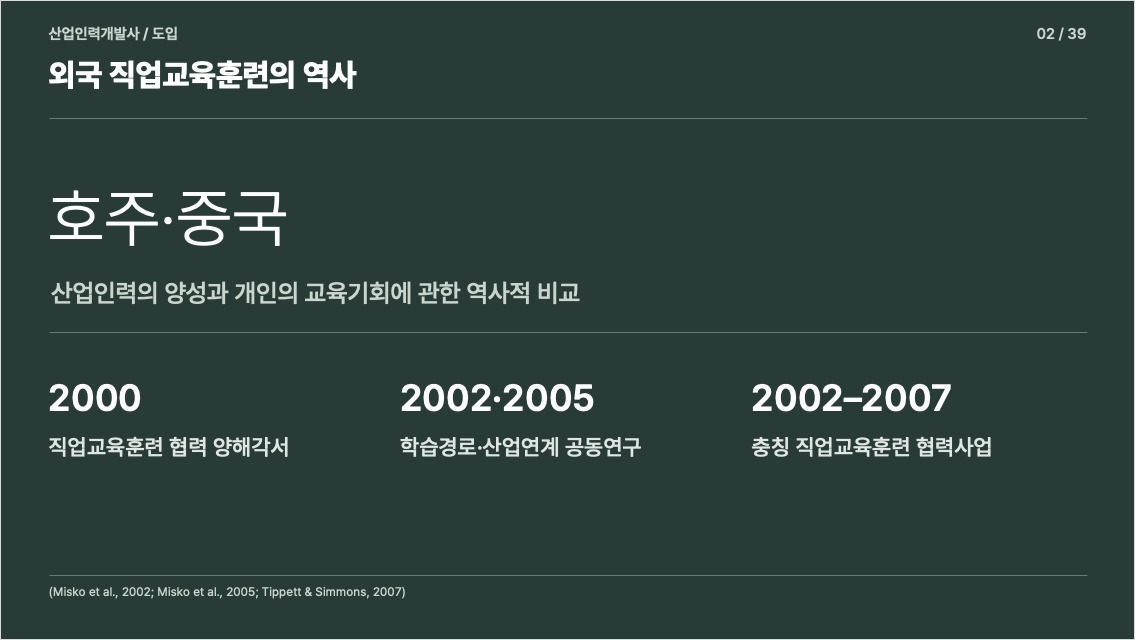
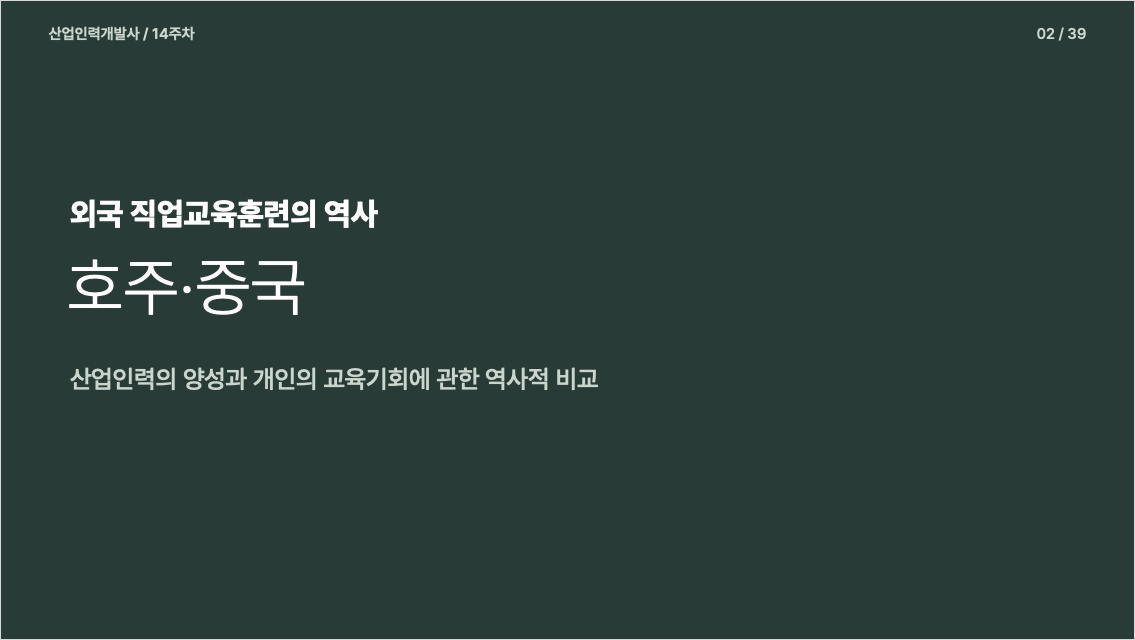
Simplify title page and retain chronological coverage

diff --git a/au-cn-2026/app.js b/au-cn-2026/app.js
@@ -10,5 +10,5 @@ function drawPanel(){const s=deck.slides[idx];const p=$('#panel');document.query
  else if(tab==='sources'){p.innerHTML='<h3>장표 관련 사료 및 연구문헌</h3><div class="sources">'+s.sources.map(k=>sourceCard(lookup[k])).join('')+'</div>'}
  else{p.innerHTML='<h3>전체 참고문헌 및 확인 위치</h3><div class="summary"><span>등록 출처 <b>'+deck.sources.length+'건</b></span><span>원문 확보 여부 및 자료 성격의 구별</span></div><input class="search" id="sourceSearch" type="search" aria-label="참고문헌 검색" placeholder="저자·제목·연도·검토 상태 검색"><div id="sourceList"></div>';const render=()=>{let q=$('#sourceSearch').value.toLowerCase();$('#sourceList').innerHTML=deck.sources.filter(t=>JSON.stringify(t).toLowerCase().includes(q)).sort((a,b)=>a.ref.localeCompare(b.ref,'en')).map(sourceCard).join('')||'<p>검색 결과 없음</p>'};$('#sourceSearch').oninput=render;render()}
 }
-function go(i,update=true){idx=Math.min(deck.slides.length-1,Math.max(0,i));const s=deck.slides[idx];$('#section').textContent=s.section+' · '+s.id+' / '+deck.slides.length+' · 배정 '+seconds(s.sec);$('#slideTitle').textContent=s.title;$('#slide').src=root+'slides/'+s.id+'.jpg?v=20261127r008';$('#slide').alt=s.title+' — 실제 PowerPoint 렌더링';$('#sel').value=idx;$('#prev').disabled=idx===0;$('#next').disabled=idx===deck.slides.length-1;$('#bar').style.width=(100*(idx+1)/deck.slides.length)+'%';const used=deck.slides.slice(0,idx+1).reduce((a,b)=>a+b.sec,0);$('#timing').textContent='누적 '+seconds(used)+' / 39:00';drawNav();drawPanel();if(update)history.replaceState(null,'','#slide='+s.id)}
-fetch(root+'data.json?v=20261127r008',{cache:'no-cache'}).then(r=>{if(!r.ok)throw Error('자료 요청 실패 '+r.status);return r.json()}).then(d=>{deck=d;lookup=Object.fromEntries(d.sources.map(s=>[s.id,s]));$('#sel').innerHTML=d.slides.map((s,i)=>'<option value="'+i+'">'+s.id+' '+esc(s.title)+'</option>').join('');$('#sel').onchange=e=>go(+e.target.value);$('#prev').onclick=()=>go(idx-1);$('#next').onclick=()=>go(idx+1);document.querySelectorAll('.tabs button').forEach(b=>b.onclick=()=>{tab=b.dataset.tab;drawPanel()});document.addEventListener('keydown',e=>{if(/INPUT|SELECT|TEXTAREA/.test(e.target.tagName))return;if(e.key==='ArrowRight'){e.preventDefault();go(idx+1)}if(e.key==='ArrowLeft'){e.preventDefault();go(idx-1)}});const n=Number(location.hash.match(/slide=(\d+)/)?.[1]||1);go(n-1,false)}).catch(e=>{$('#slideTitle').textContent='자료 불러오기 오류';$('#panel').textContent=String(e)});
+function go(i,update=true){idx=Math.min(deck.slides.length-1,Math.max(0,i));const s=deck.slides[idx];$('#section').textContent=s.section+' · '+s.id+' / '+deck.slides.length+' · 배정 '+seconds(s.sec);$('#slideTitle').textContent=s.title;$('#slide').src=root+'slides/'+s.id+'.jpg?v=20261127r009';$('#slide').alt=s.title+' — 실제 PowerPoint 렌더링';$('#sel').value=idx;$('#prev').disabled=idx===0;$('#next').disabled=idx===deck.slides.length-1;$('#bar').style.width=(100*(idx+1)/deck.slides.length)+'%';const used=deck.slides.slice(0,idx+1).reduce((a,b)=>a+b.sec,0);$('#timing').textContent='누적 '+seconds(used)+' / 39:00';drawNav();drawPanel();if(update)history.replaceState(null,'','#slide='+s.id)}
+fetch(root+'data.json?v=20261127r009',{cache:'no-cache'}).then(r=>{if(!r.ok)throw Error('자료 요청 실패 '+r.status);return r.json()}).then(d=>{deck=d;lookup=Object.fromEntries(d.sources.map(s=>[s.id,s]));$('#sel').innerHTML=d.slides.map((s,i)=>'<option value="'+i+'">'+s.id+' '+esc(s.title)+'</option>').join('');$('#sel').onchange=e=>go(+e.target.value);$('#prev').onclick=()=>go(idx-1);$('#next').onclick=()=>go(idx+1);document.querySelectorAll('.tabs button').forEach(b=>b.onclick=()=>{tab=b.dataset.tab;drawPanel()});document.addEventListener('keydown',e=>{if(/INPUT|SELECT|TEXTAREA/.test(e.target.tagName))return;if(e.key==='ArrowRight'){e.preventDefault();go(idx+1)}if(e.key==='ArrowLeft'){e.preventDefault();go(idx-1)}});const n=Number(location.hash.match(/slide=(\d+)/)?.[1]||1);go(n-1,false)}).catch(e=>{$('#slideTitle').textContent='자료 불러오기 오류';$('#panel').textContent=String(e)});

diff --git a/exhibit/index.html b/exhibit/index.html
@@ -1,1 +1,1 @@
-<!DOCTYPE html><html lang="ko"><head><meta charset="utf-8"><meta name="viewport" content="width=device-width,initial-scale=1"><meta name="description" content="호주·중국 직업교육훈련의 비교역사 연구 발표 준비실"><title>호주·중국 직업교육훈련사 | 발표 준비실</title><link rel="stylesheet" href="../au-cn-2026/style.css?v=20261127r008"></head><body data-root="../au-cn-2026/" class="exhibit"><header class="top"><div><p>2026-2 산업인력개발사 · 14주차 주제발표</p><h1>호주·중국 직업교육훈련의 역사</h1><p>산업인력의 양성과 개인의 교육기회에 관한 역사적 비교</p></div><div class="action"><a href="../au-cn-2026/presentation.pptx?v=20261127r008" download>편집 가능한 PPTX</a><a href="../">발표 준비실</a></div></header><main class="shell"><aside class="nav"><h2>발표 목차 · 본론 31장 + 참고문헌 8장 / 39분</h2><div id="navlist"></div></aside><div class="main"><div class="headrow"><div><div id="section" class="meta">자료 불러오기 중</div><h2 id="slideTitle">발표 준비실</h2></div><div class="controls"><button id="prev" aria-label="이전 장표">‹ 이전</button><select id="sel" aria-label="장표 이동"></select><button id="next" aria-label="다음 장표">다음 ›</button><span class="meta" id="timing"></span></div></div><div class="progress"><span id="bar"></span></div><img class="slide" id="slide" alt="장표 미리보기"><div class="detail-area"><div class="tabs" role="tablist"><button class="active" data-tab="notes" role="tab">발표자 노트</button><button data-tab="sources" role="tab">관련 사료</button><button data-tab="all" role="tab">전체 참고문헌</button></div><section id="panel" class="panel" aria-live="polite"></section></div><div class="bottom">서울대학교 산업인력개발사 · 14주차 주제발표</div></div></main><script src="../au-cn-2026/app.js?v=20261127r008"></script></body></html>
+<!DOCTYPE html><html lang="ko"><head><meta charset="utf-8"><meta name="viewport" content="width=device-width,initial-scale=1"><meta name="description" content="호주·중국 직업교육훈련의 비교역사 연구 발표 준비실"><title>호주·중국 직업교육훈련사 | 발표 준비실</title><link rel="stylesheet" href="../au-cn-2026/style.css?v=20261127r009"></head><body data-root="../au-cn-2026/" class="exhibit"><header class="top"><div><p>2026-2 산업인력개발사 · 14주차 주제발표</p><h1>호주·중국 직업교육훈련의 역사</h1><p>산업인력의 양성과 개인의 교육기회에 관한 역사적 비교</p></div><div class="action"><a href="../au-cn-2026/presentation.pptx?v=20261127r009" download>편집 가능한 PPTX</a><a href="../">발표 준비실</a></div></header><main class="shell"><aside class="nav"><h2>발표 목차 · 본론 31장 + 참고문헌 8장 / 39분</h2><div id="navlist"></div></aside><div class="main"><div class="headrow"><div><div id="section" class="meta">자료 불러오기 중</div><h2 id="slideTitle">발표 준비실</h2></div><div class="controls"><button id="prev" aria-label="이전 장표">‹ 이전</button><select id="sel" aria-label="장표 이동"></select><button id="next" aria-label="다음 장표">다음 ›</button><span class="meta" id="timing"></span></div></div><div class="progress"><span id="bar"></span></div><img class="slide" id="slide" alt="장표 미리보기"><div class="detail-area"><div class="tabs" role="tablist"><button class="active" data-tab="notes" role="tab">발표자 노트</button><button data-tab="sources" role="tab">관련 사료</button><button data-tab="all" role="tab">전체 참고문헌</button></div><section id="panel" class="panel" aria-live="polite"></section></div><div class="bottom">서울대학교 산업인력개발사 · 14주차 주제발표</div></div></main><script src="../au-cn-2026/app.js?v=20261127r009"></script></body></html>

diff --git a/index.html b/index.html
@@ -1,1 +1,1 @@
-<!DOCTYPE html><html lang="ko"><head><meta charset="utf-8"><meta name="viewport" content="width=device-width,initial-scale=1"><meta name="description" content="호주·중국 직업교육훈련의 비교역사 연구 발표 준비실"><title>호주·중국 직업교육훈련사 | 발표 준비실</title><link rel="stylesheet" href="au-cn-2026/style.css?v=20261127r008"></head><body data-root="au-cn-2026/" class=""><header class="top"><div><p>2026-2 산업인력개발사 · 14주차 주제발표</p><h1>호주·중국 직업교육훈련의 역사</h1><p>산업인력의 양성과 개인의 교육기회에 관한 역사적 비교</p></div><div class="action"><a href="au-cn-2026/presentation.pptx?v=20261127r008" download>편집 가능한 PPTX</a><a href="exhibit/">발표 화면</a></div></header><main class="shell"><aside class="nav"><h2>발표 목차 · 본론 31장 + 참고문헌 8장 / 39분</h2><div id="navlist"></div></aside><div class="main"><div class="headrow"><div><div id="section" class="meta">자료 불러오기 중</div><h2 id="slideTitle">발표 준비실</h2></div><div class="controls"><button id="prev" aria-label="이전 장표">‹ 이전</button><select id="sel" aria-label="장표 이동"></select><button id="next" aria-label="다음 장표">다음 ›</button><span class="meta" id="timing"></span></div></div><div class="progress"><span id="bar"></span></div><img class="slide" id="slide" alt="장표 미리보기"><div class="detail-area"><div class="tabs" role="tablist"><button class="active" data-tab="notes" role="tab">발표자 노트</button><button data-tab="sources" role="tab">관련 사료</button><button data-tab="all" role="tab">전체 참고문헌</button></div><section id="panel" class="panel" aria-live="polite"></section></div><div class="bottom">서울대학교 산업인력개발사 · 14주차 주제발표</div></div></main><script src="au-cn-2026/app.js?v=20261127r008"></script></body></html>
+<!DOCTYPE html><html lang="ko"><head><meta charset="utf-8"><meta name="viewport" content="width=device-width,initial-scale=1"><meta name="description" content="호주·중국 직업교육훈련의 비교역사 연구 발표 준비실"><title>호주·중국 직업교육훈련사 | 발표 준비실</title><link rel="stylesheet" href="au-cn-2026/style.css?v=20261127r009"></head><body data-root="au-cn-2026/" class=""><header class="top"><div><p>2026-2 산업인력개발사 · 14주차 주제발표</p><h1>호주·중국 직업교육훈련의 역사</h1><p>산업인력의 양성과 개인의 교육기회에 관한 역사적 비교</p></div><div class="action"><a href="au-cn-2026/presentation.pptx?v=20261127r009" download>편집 가능한 PPTX</a><a href="exhibit/">발표 화면</a></div></header><main class="shell"><aside class="nav"><h2>발표 목차 · 본론 31장 + 참고문헌 8장 / 39분</h2><div id="navlist"></div></aside><div class="main"><div class="headrow"><div><div id="section" class="meta">자료 불러오기 중</div><h2 id="slideTitle">발표 준비실</h2></div><div class="controls"><button id="prev" aria-label="이전 장표">‹ 이전</button><select id="sel" aria-label="장표 이동"></select><button id="next" aria-label="다음 장표">다음 ›</button><span class="meta" id="timing"></span></div></div><div class="progress"><span id="bar"></span></div><img class="slide" id="slide" alt="장표 미리보기"><div class="detail-area"><div class="tabs" role="tablist"><button class="active" data-tab="notes" role="tab">발표자 노트</button><button data-tab="sources" role="tab">관련 사료</button><button data-tab="all" role="tab">전체 참고문헌</button></div><section id="panel" class="panel" aria-live="polite"></section></div><div class="bottom">서울대학교 산업인력개발사 · 14주차 주제발표</div></div></main><script src="au-cn-2026/app.js?v=20261127r009"></script></body></html>
